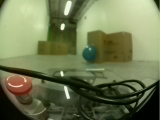
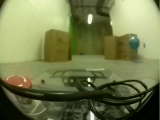
tune

diff --git a/racecar_control/scripts/blob_detector.py b/racecar_control/scripts/blob_detector.py
@@ -53,8 +53,8 @@ class BlobDetector:
 
         self.num_debris = 1
         self.objects_positions = []
-        self.object_stored = False
-        self.obstacle_detect_time = 0
+        self.object_already_stored = False
+        self.stop = False
         self.rospack = rospkg.RosPack()
         self.rospack.list() 
         self.path = self.rospack.get_path('racecar_control') + "/report/"
@@ -122,8 +122,18 @@ class BlobDetector:
         self.color_value = config.color_value
         self.border = config.border
         return config
+
+    def stop_callback(self, evt):
+        self.stop = False
   
     def image_callback(self, image, depth, info):
+
+        if self.stop == True:
+            stop_cmd = Twist()
+            stop_cmd.linear.x = -0.5
+            stop_cmd.angular.z = 0.0
+            self.cmd_vel_pub.publish(stop_cmd)
+            return
             
         try:
             cv_image = self.bridge.imgmsg_to_cv2(image, "bgr8")
@@ -176,7 +186,9 @@ class BlobDetector:
                         closestObject[2] = depth
 
         # We process only the closest object detected
-        if closestObject[2] > 0 and (float(rospy.get_rostime()) - float(self.obstacle_detect_time)) >= 5.0:
+
+        if closestObject[2] > 0:
+            
             # assuming the object is circular, use center of the object as position
             transObj = (closestObject[0], closestObject[1], closestObject[2])
             rotObj = tf.transformations.quaternion_from_euler(0, np.pi/2, -np.pi/2)
@@ -186,7 +198,6 @@ class BlobDetector:
                     image.header.frame_id)  
             msg = String()
             msg.data = self.object_frame_id
-            print(self.object_frame_id)
             self.object_pub.publish(msg) # signal that an object has been detected
             
             # Compute object pose in map frame
@@ -214,32 +225,44 @@ class BlobDetector:
         
             object_pos = [transMap[0], transMap[1]]
             for pos_stored in self.objects_positions:
-                if pos_stored[0] <= object_pos[0] + 0.5 and \
+                if  pos_stored[0] <= object_pos[0] + 0.5 and \
                     pos_stored[0] >= object_pos[0] - 0.5 and \
                     pos_stored[1] <= object_pos[1] + 0.5 and \
-                    pos_stored[1] >= object_pos[1] - 0.5:
-                    self.objects_positions.append([transMap[0], transMap[0]])
-                    self.num_debris +=1
-                    self.object_stored = False
+                    pos_stored[1] >= object_pos[1] - 0.5 :
+                    print("here")
+                    self.object_already_stored = True
 
-            if self.object_frame_id and not self.object_stored :
+                else:
+                    self.object_already_stored = False
+ 
+
+            rospy.loginfo("je detecte un ballon")
+            try:
+                print(object_pos)
+                print(self.objects_positions[0])
+                print(self.object_already_stored)
+            except:
+                pass
+
+            if self.object_frame_id and not self.object_already_stored :
                 twist = Twist()
                 if distance >= 2 and angle != 0:
                     twist.linear.x = self.max_speed/2
                     twist.angular.z = 2*angle
                     self.cmd_vel_pub.publish(twist)
-                    print("avance")
 
                 if distance < 2:
-                    if angle < 5/360*2*np.pi or angle > 5/360*2*np.pi:
-                        if not self.object_stored:
+                    if angle < (5/360*2*np.pi) or angle > (-5/360*2*np.pi):
+                        if not self.object_already_stored:
                             
                             twist.linear.x = 0
                             twist.angular.z = 0
                             self.cmd_vel_pub.publish(twist)
                             rospy.loginfo("taking picture")
                             rospy.loginfo("processing...")
-                            self.obstacle_detect_time = rospy.get_rostime()
+                            self.objects_positions.append([transMap[0], transMap[1]])
+                            self.stop = True
+                            self.stop_timer = rospy.Timer(rospy.Duration(5), self.stop_callback, oneshot=True)
 
                             filename = "photo_object_" + str(self.num_debris) + ".png"
                             cv2.imwrite((self.path + filename), self.bridge.imgmsg_to_cv2(image, "bgr8"))
@@ -247,7 +270,7 @@ class BlobDetector:
                             f = open((self.path + "points.txt"), "a")
                             f.write(str(transMap[0]) + " " + str(transMap[1]) + "\n")
                             f.close()
-                            self.object_stored = True
+                            self.num_debris +=1
 
         # debugging topic
         if self.image_pub.get_num_connections()>0:
